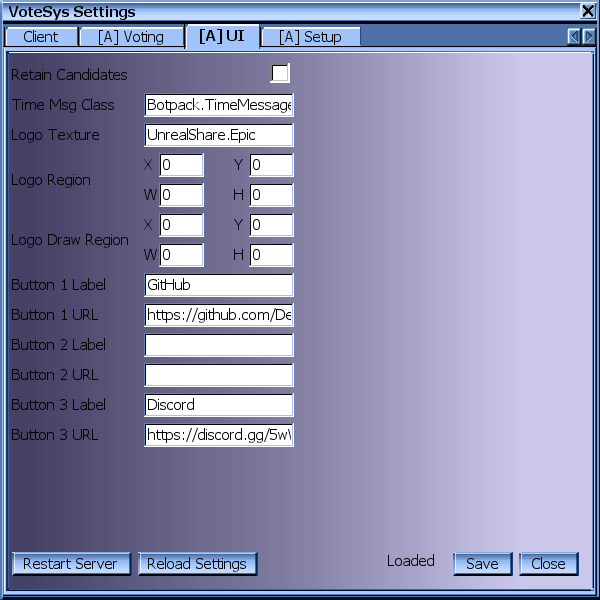
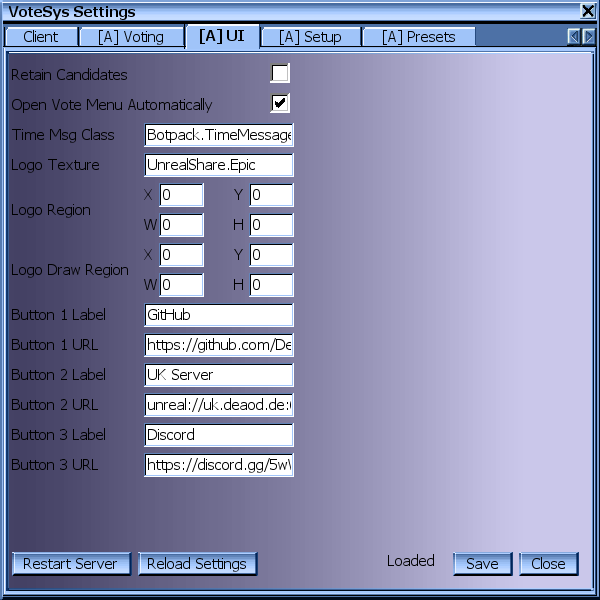
Add Setting bOpenVoteMenuAutomatically

diff --git a/README.md b/README.md
@@ -62,6 +62,7 @@ MidGameVoteThreshold=0.5
 MidGameVoteTimeLimit=30
 VoteEndCondition=VEC_TimerOnly
 bRetainCandidates=False
+bOpenVoteMenuAutomatically=True
 MinimumMapRepeatDistance=0
 KickVoteThreshold=0.6
 DefaultTimeMessageClass=Botpack.TimeMessage
@@ -106,6 +107,7 @@ DefaultActors=IpServer.UdpServerUplink MasterServerAddress=unreal.epicgames.com 
 1. [MidGameVoteTimeLimit](#midgamevotetimelimit)
 1. [VoteEndCondition](#voteendcondition)
 1. [bRetainCandidates](#bretaincandidates)
+1. [bOpenVoteMenuAutomatically](#bopenvotemenuautomatically)
 1. [MinimumRepeatDistance](#minimumrepeatdistance)
 1. [KickVoteThreshold](#kickvotethreshold)
 1. [DefaultTimeMessageClass](#defaulttimemessageclass)
@@ -179,6 +181,13 @@ Defaults to `VEC_TimerOnly`.
 If true, candidates that no longer have any votes for them get retained. If false, candidates with no votes disappear from the list.
 
 Defaults to false.
+
+#### bOpenVoteMenuAutomatically
+
+If true, the vote menu gets opened automatically when the vote timer starts.  
+If false, the menu does not get opened automatically. Setting this to false is equivalent to setting [`bOpenVoteMenuAutomatically`](bopenvotemenuautomatically-1) to false for all presets.
+
+Defaults to true.
 
 #### MinimumRepeatDistance
 
@@ -385,6 +394,7 @@ Category=DM
 InheritFrom=DM/Team DeathMatch
 GameSettings=MaxTeams=4
 Mutators=Botpack.InstaGibDM
+bOpenVoteMenuAutomatically=False
 MinimumMapRepeatDistance=4
 MinPlayers=4
 MaxPlayers=8
@@ -475,6 +485,13 @@ If `True` the preset will not be shown to users and will not be eligible to beco
 This setting does not need to be mentioned explicitly. Its default value will be used if it is not mentioned.
 
 Default is `False`.
+
+#### bOpenVoteMenuAutomatically
+
+If `True`, the vote menu gets opened automatically when the vote timer starts while this preset is active on the server.  
+If `False`, the menu does not get opened automatically.
+
+Default is `True`.
 
 #### MinimumMapRepeatDistance
 
